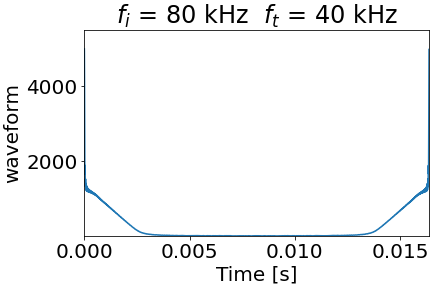
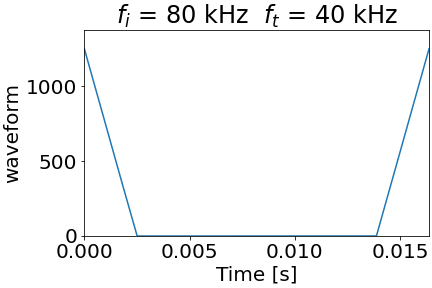
jiashd

diff --git a/Simulation/LPM/Robot_LPM＋CF.py b/Simulation/LPM/Robot_LPM＋CF.py
@@ -19,23 +19,25 @@ def Initialize():
     #sensing_setting
     Fs=1000000 #[Hz]sampling_f
     FFT_Smpl=2**14 #Number_of_samplings_for_sensing[smpls]
+    i=1
     
     #pulse_design_setting
     Amplitude = 32767. / 2.   #pulse Amplitude: 
     Fi = 80000    #: initial frequency [Hz]
     Ft = 40000  #: terminal frequency [Hz]
-    Duration =0.0075 #LPM_duration [s]
+    Duration =0.01 #LPM_duration [s]
     Duration_CF =0.0025 # CF_duration [s]
     Duration_mimic=0.01#mimicFM_duration[s]
     BatcallConstant=0.005#パラメータ
     draw_tx_spc_flg=True
     draw_Acor_flg=True
     draw_tx_FFT_flg=True   
-    return Fs,FFT_Smpl,Amplitude,Fi,Ft,Duration,Duration_CF,Duration_mimic,BatcallConstant,draw_tx_spc_flg,draw_Acor_flg,draw_tx_FFT_flg
+    return i,Fs,FFT_Smpl,Amplitude,Fi,Ft,Duration,Duration_CF,Duration_mimic,BatcallConstant,draw_tx_spc_flg,draw_Acor_flg,draw_tx_FFT_flg
     
 #位相を出している？
-def LPM_model_h(fs, fi, ft, dur, t):
+def LPM_model_h(i,fs, fi, ft, dur):
     #phai=alpha*ln(gamma*t+xi)+beta=2*np.pi*f*tから初期・終期のt,f条件から解析的に解いて代入した
+    t=i
     Ts=1.0/fs #[Hz]sampling_period
     k=(1-ft/fi)/(ft*dur)
     f=fi/(1+k*fi*t)
@@ -51,16 +53,14 @@ def CF_add(fs, ft, t):
 def Mimic_FM_add(fi,ft,BatcallConstant,fs,dur):
     pi=np.pi
     nframes=int(dur*fs+1)
-    arg=(BatcallConstant*ft)/fi
+    arg=np.float_power(ft/fi,1/dur)
     call=[]
-    fi=fi/100
-    ft=ft/100
+
     for i in range(nframes):
-        t=float(i)/fs*100
-        call.append(np.sin(2.*pi*((fi/(fi-BatcallConstant*ft))*((fi-ft)*np.float_power(arg, t)/math.log(arg)+(1-BatcallConstant)*ft*t))))
+        t=float(i)/fs
+        call.append(np.sin(2.*pi*fi*(np.float_power(arg,t)/math.log(arg))))
     return call
-    
-#波形を作った？　なぜ加算して行っているのか・・
+
 def trans_wv(del_phase_array):
     phase=0
     wave=np.zeros(len(del_phase_array))
@@ -132,7 +132,7 @@ def draw_spectrogram(fig_name, x_data, y_data, z_color, f_init, f_termin, val):
     plt.close()
     
 
-def tx_design_view(fs, FFT_smpl, Amp, fi, ft, duration, duration_CF,Duration_mimic,BatcallConstant, draw_tx_spc_flg, draw_Acor_flg, draw_tx_FFT_flg):
+def tx_design_view(i,fs, FFT_smpl, Amp, fi, ft, duration, duration_CF,Duration_mimic,BatcallConstant, draw_tx_spc_flg, draw_Acor_flg, draw_tx_FFT_flg):
 
     Ts=1.0/fs #[s]
     t_start = 0.0
@@ -147,14 +147,17 @@ def tx_design_view(fs, FFT_smpl, Amp, fi, ft, duration, duration_CF,Duration_mim
     ###### transmit_phase(txphase_CF)_and_reference_phase(txphase)_calclation ######    
     n_dur=int(duration/Ts)+1
     n_dur_CF=int(duration_CF/Ts)+1
-    txphase = LPM_model_h(fs, fi, ft, duration, t_array[:n_dur])
+    txphase = LPM_model_h(i,fs, fi, ft, duration)
     txphase_CF = CF_add(fs, ft, t_array[n_dur:n_dur+n_dur_CF])
     
     ##LPM と　CFの位相を結合
     txphase_CF=np.hstack([txphase,txphase_CF])
-    ###### transmit_wave(txwv_CF)_and_reference_wave(txwv)_calclation######    
-    txwv = trans_wv(txphase)
-    txwv = zero_filled(txwv, t_array)
+    ###### transmit_wave(txwv_CF)_and_reference_wave(txwv)_calclation######
+    txwv=[]
+    for i in range(n_dur):
+        txwv=np.append(txwv,LPM_model_h(i, fs, fi, ft, duration))
+        
+    txwv=zero_filled(txwv, t_array)    
     txwv_CF = trans_wv(txphase_CF)
     txwv_CF = zero_filled(txwv_CF, t_array)
 
@@ -162,11 +165,7 @@ def tx_design_view(fs, FFT_smpl, Amp, fi, ft, duration, duration_CF,Duration_mim
 
     
     call=Mimic_FM_add(fi, ft, BatcallConstant, fs, Duration_mimic)
-    txwv_FM=[]
-    txwv_FM=np.append(txwv_FM,np.zeros(len(txphase)))
-    txwv_FM=np.append(txwv_FM,call)
-    txwv_FM=np.append(txwv_FM,[0]*(FFT_smpl-(int(Duration_mimic*fs+1))))
-
+ 
 
 
     ##### tx_wave_draw ###############
@@ -181,36 +180,37 @@ def tx_design_view(fs, FFT_smpl, Amp, fi, ft, duration, duration_CF,Duration_mim
         draw_spectrogram("tx", spc_t, spc_f, spc_pw, fi, ft, dataDir)   
         spc_f_CF, spc_t_CF, spc_pw_CF = signal.spectrogram(txwv_CF, fs, nperseg=1024, noverlap=int(1024*0.98))
         draw_spectrogram("tx_CF", spc_t_CF, spc_f_CF, spc_pw_CF, fi, ft, dataDir)
-        spc_f_FM, spc_t_FM, spc_pw_FM = signal.spectrogram(txwv_FM, fs, nperseg=1024, noverlap=int(1024*0.98))
-        draw_spectrogram("tx_FM", spc_t_FM, spc_f_FM, spc_pw_FM, fi, ft, dataDir) 
+      ##  spc_f_FM, spc_t_FM, spc_pw_FM = signal.spectrogram(txwv_FM, fs, nperseg=1024, noverlap=int(1024*0.98))
+        ##draw_spectrogram("tx_FM", spc_t_FM, spc_f_FM, spc_pw_FM, fi, ft, dataDir) 
     
     ##### Acor_calc_and_draw ######
     if draw_Acor_flg==1:
         Acor_env_tx = Xcor_func(t_array, txwv, txwv)
         Acor_env_tx_CF = Xcor_func(t_array, txwv_CF, txwv_CF)
-        Acor_env_tx_FM = Xcor_func(t_array, txwv_FM, txwv_FM)
+        ##Acor_env_tx_FM = Xcor_func(t_array, txwv_FM, txwv_FM)
         draw_wv("Acor", t_array, Acor_env_tx, min(t_array), max(t_array), min(Acor_env_tx)*1.1, max(Acor_env_tx)*1.1, fi, ft, dataDir)
-        draw_wv("Acor_CF", t_array, Acor_env_tx_CF, min(t_array), max(t_array), min(Acor_env_tx_CF)*1.1, max(Acor_env_tx_CF)*1.1, fi, ft, dataDir)
-        draw_wv("Acor_FM", t_array, Acor_env_tx_FM, min(t_array), max(t_array), min(Acor_env_tx_FM)*1.1, max(Acor_env_tx_FM)*1.1, fi, ft, dataDir)
+        draw_wv("Acor_CF", t   
+                *---------------------------------------------------------------932+104.3_array, Acor_env_tx_CF, min(t_array), max(t_array), min(Acor_env_tx_CF)*1.1, max(Acor_env_tx_CF)*1.1, fi, ft, dataDir)
+       ## draw_wv("Acor_FM", t_array, Acor_env_tx_FM, min(t_array), max(t_array), min(Acor_env_tx_FM)*1.1, max(Acor_env_tx_FM)*1.1, fi, ft, dataDir).\ ンg3hz５ｇ４ｖｍ９
         
     ##### tx_spectram(FFT)_draw ###############
     ###### transmit_wave("spectrum_tx")_and_reference_wave("spectrum_tx_CF")_draw######    
     if draw_tx_FFT_flg==1:
         txspc = np.abs(fft(txwv))
         txspc_CF = np.abs(fft(txwv_CF))
-        txspc_FM=np.abs(fft(txwv_FM))
+       ## txspc_FM=np.abs(fft(txwv_FM))
         f_array = np.linspace(0, fs, len(txwv))
         draw_spctrm("spectrum_tx", txspc, f_array/1000, 0, 2000, 0, fs/10000, fi, ft, dataDir)
         draw_spctrm("spectrum_tx_CF", txspc_CF, f_array/1000, 0, 2000, 0, fs/10000, fi, ft, dataDir)
-        draw_spctrm("spectrum_tx_FM", txspc_FM, f_array/1000, 0, 2000, 0, fs/10000, fi, ft, dataDir)
+        ##draw_spctrm("spectrum_tx_FM", txspc_FM, f_array/1000, 0, 2000, 0, fs/10000, fi, ft, dataDir)
   
     print("good")
     #return t_array, txwv, txwv_CF
 
 def main():
-    Fs,FFT_Smpl,Amplitude,Fi,Ft,Duration,Duration_CF,Duration_mimic,BatcallConstant,draw_tx_spc_flg,draw_Acor_flg,draw_tx_FFT_flg=Initialize()
+    i,Fs,FFT_Smpl,Amplitude,Fi,Ft,Duration,Duration_CF,Duration_mimic,BatcallConstant,draw_tx_spc_flg,draw_Acor_flg,draw_tx_FFT_flg=Initialize()
     
-    tx_design_view(Fs, FFT_Smpl, Amplitude, Fi, Ft, Duration, Duration_CF,Duration_mimic,BatcallConstant, True, True, True)
+    tx_design_view(i,Fs, FFT_Smpl, Amplitude, Fi, Ft, Duration, Duration_CF,Duration_mimic,BatcallConstant, True, True, True)
 
 if __name__ == '__main__':
     main()
